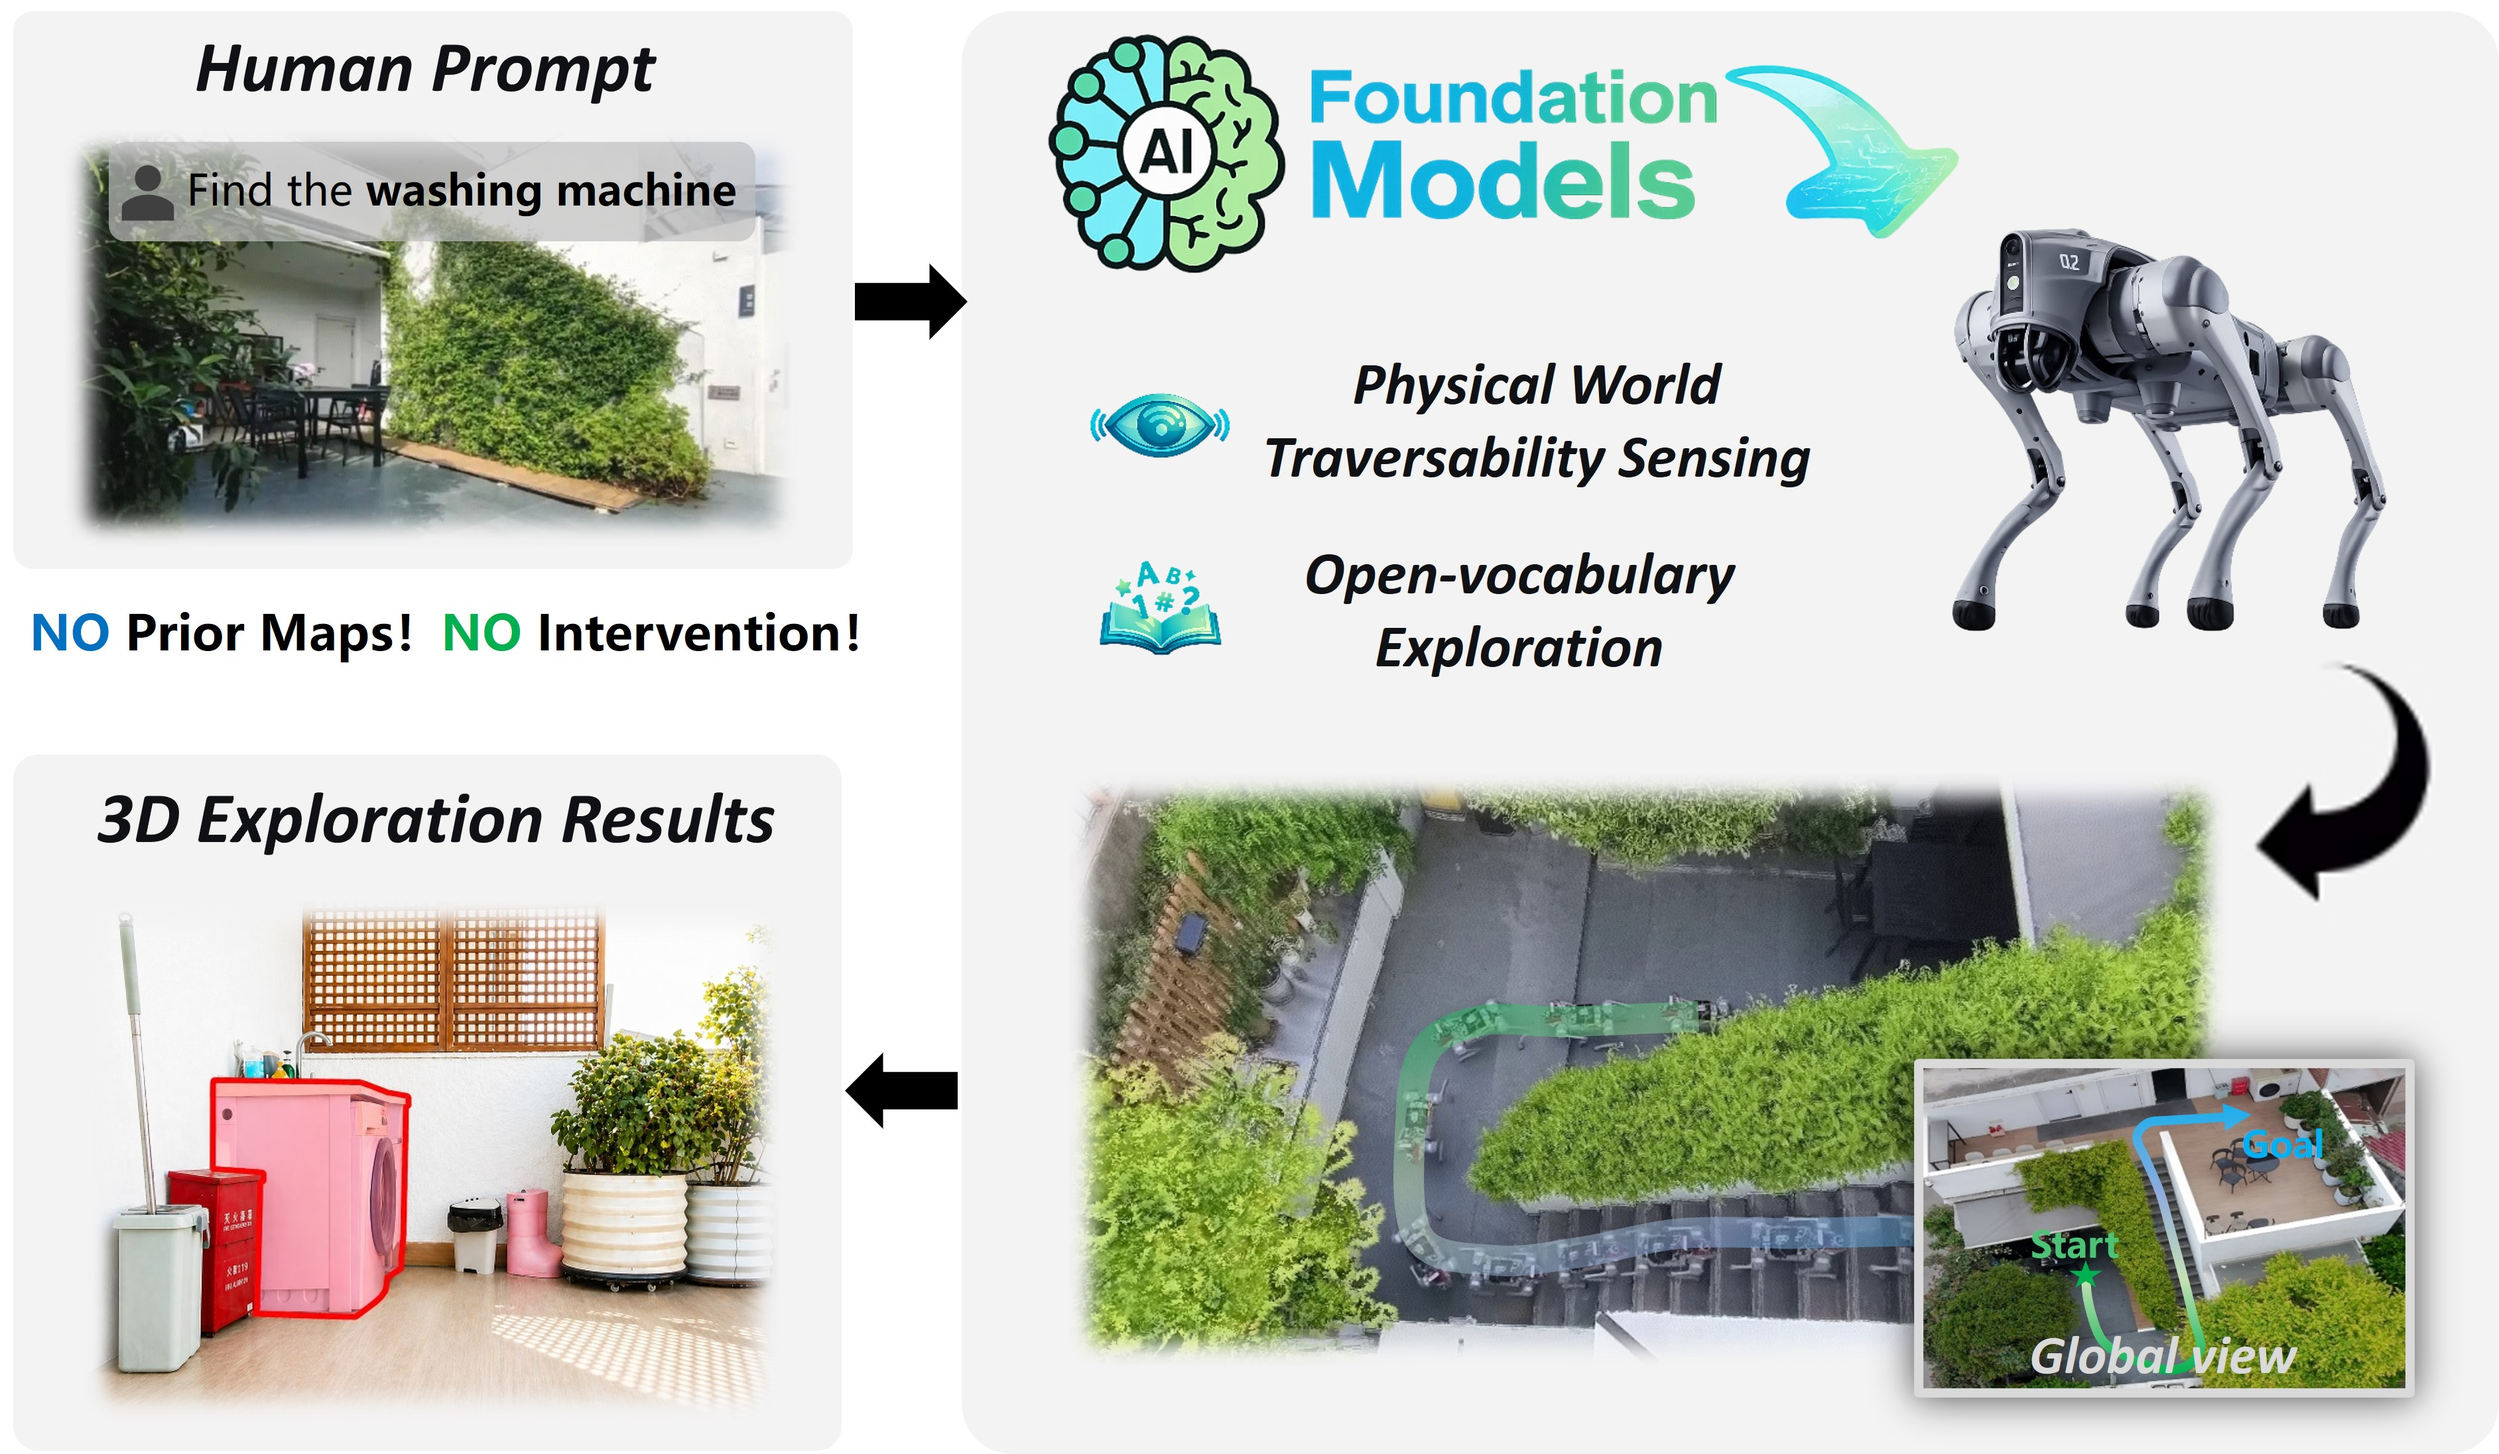
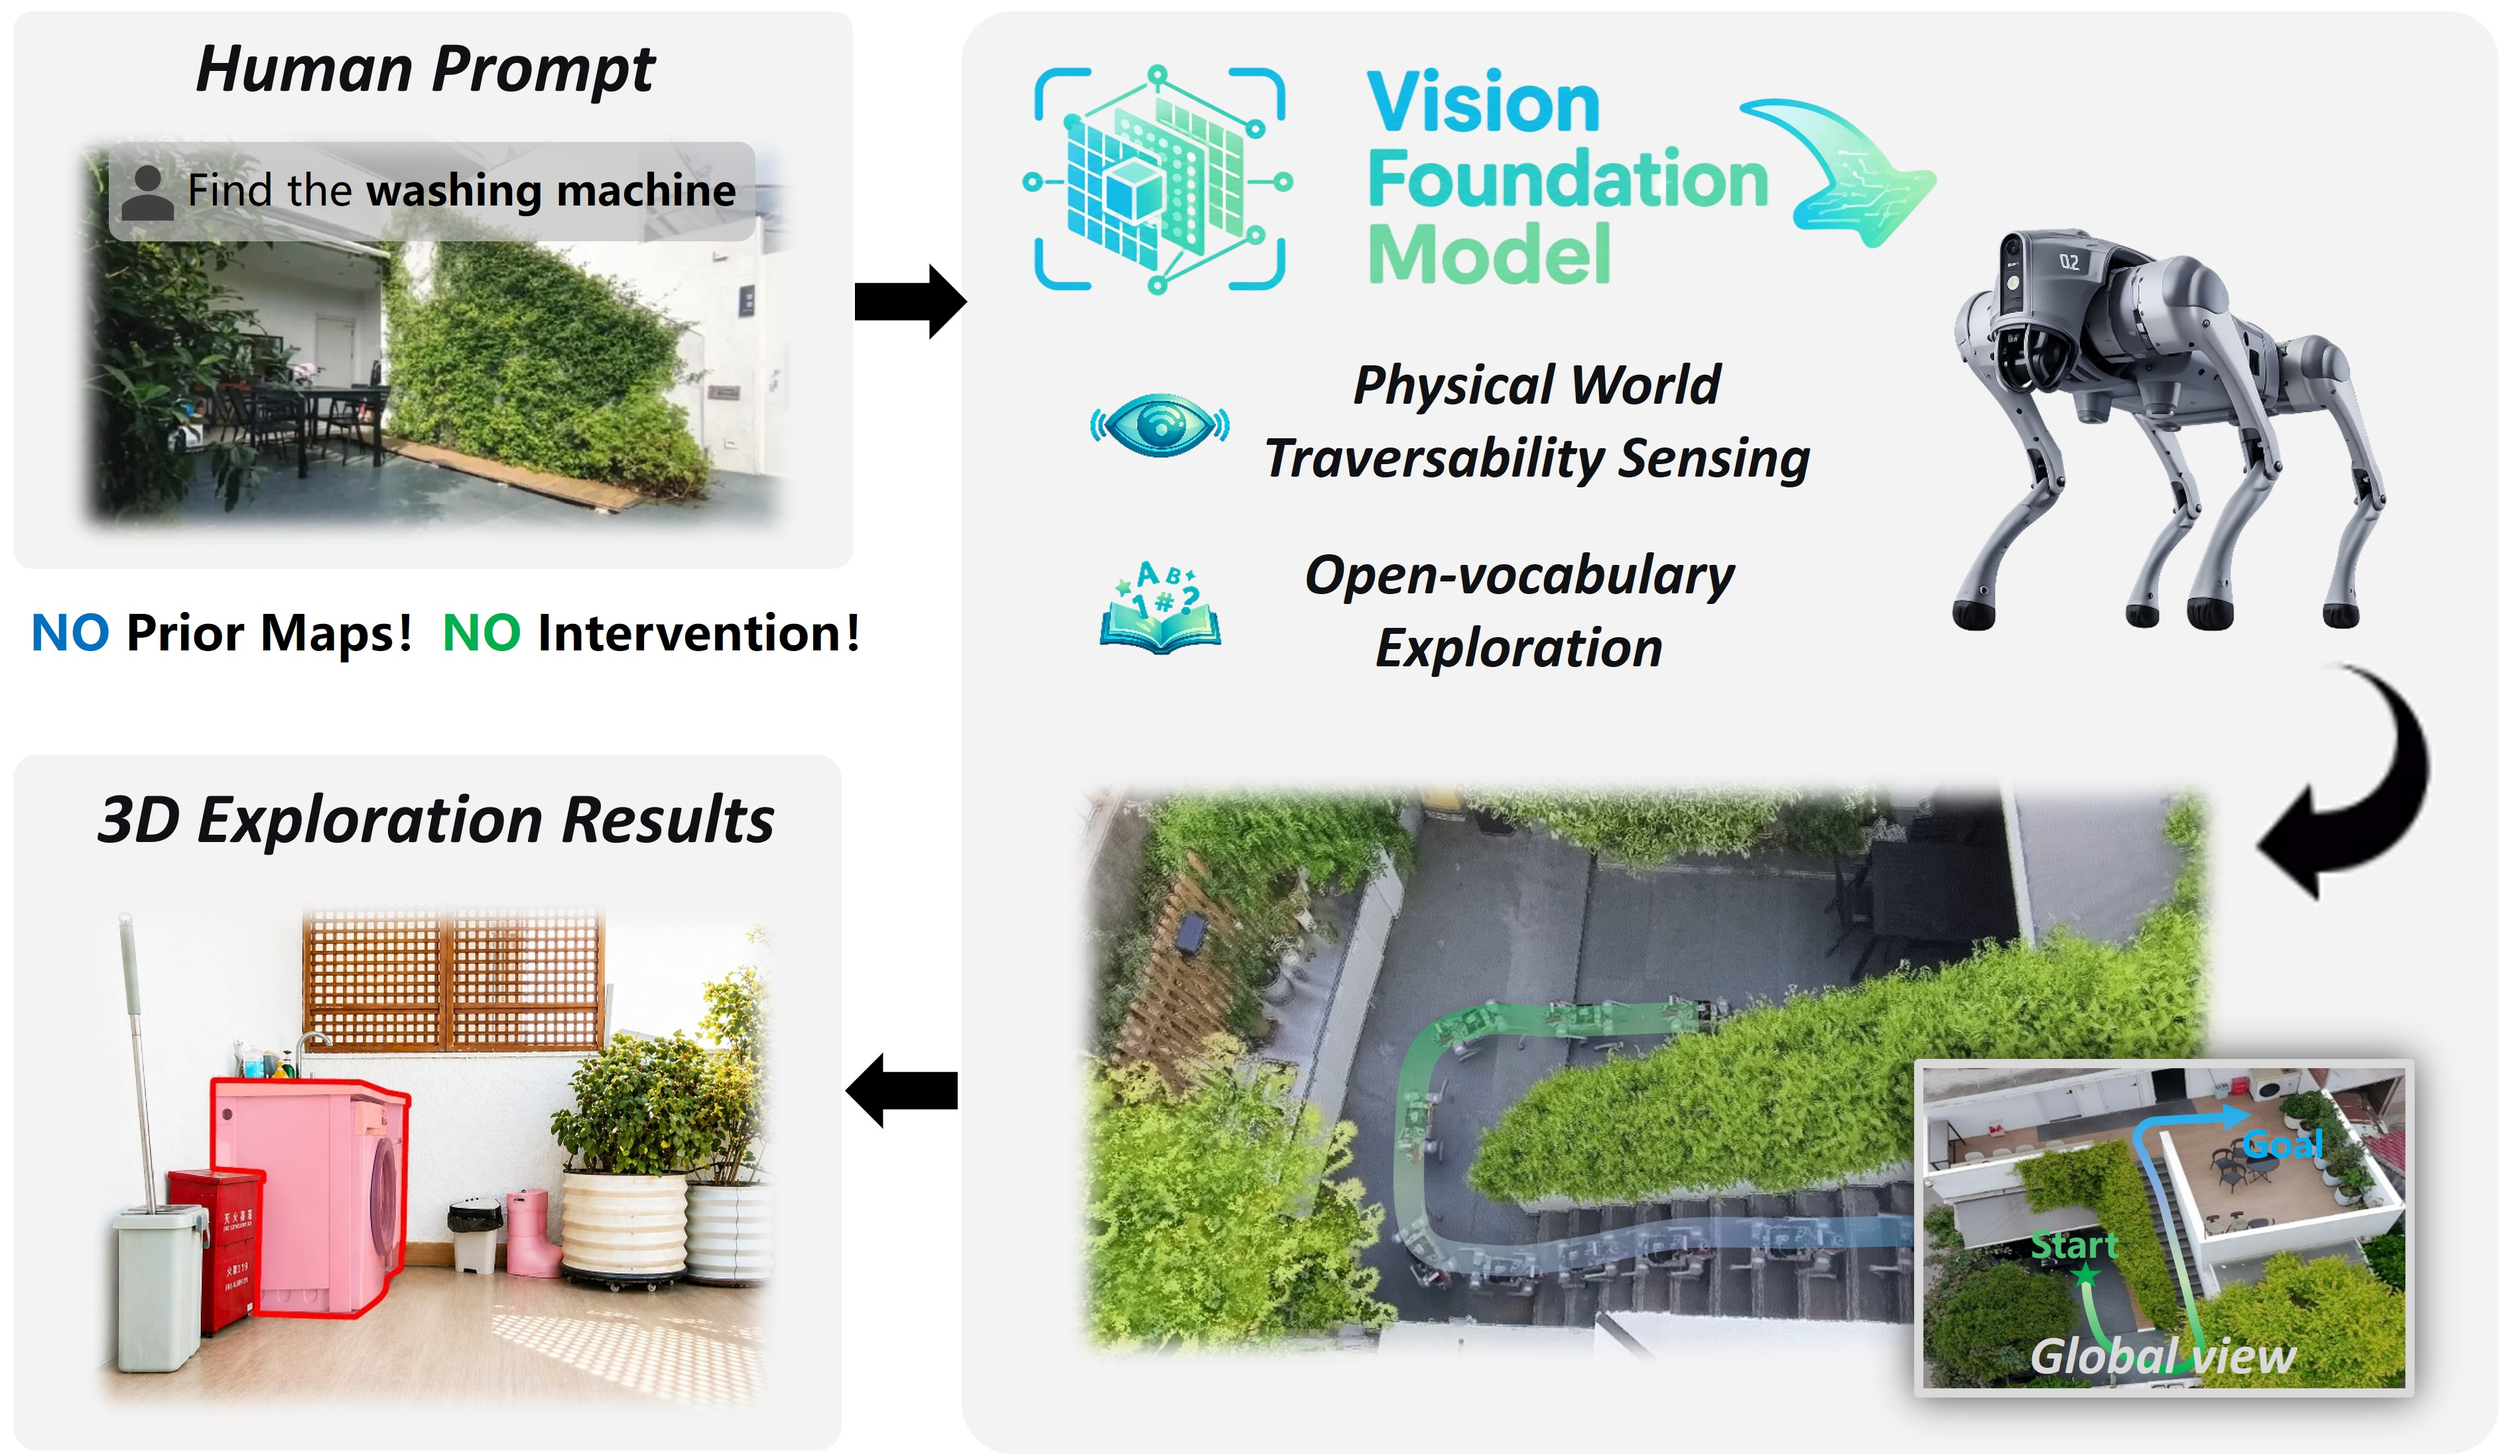
Update README images

Changed region(s): [[0.4037, 0.0, 0.8073, 0.2171]]

diff --git a/README.md b/README.md
@@ -35,7 +35,7 @@
 ## System Overview
 
 <p align="center">
-  <img src="assets/img/system_overview.jpg" width="100%"/>
+  <img src="assets/img/framework.jpg" width="100%"/>
 </p>
 
 ## Robot Platform
